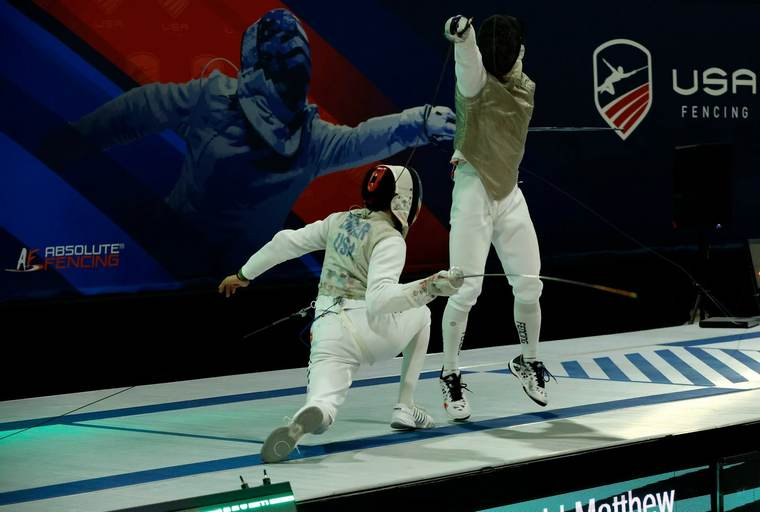
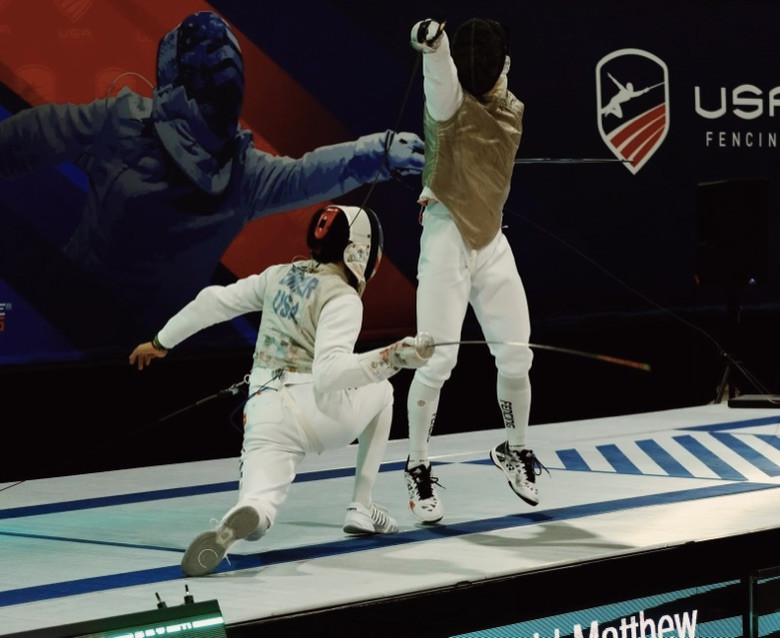
Swap the fencing photo and give ISEF one of its own (#21)
fence.jpg is replaced with the USA Fencing bout shot. The alt text no
longer says "mid-lunge" — there are two fencers in this one and the
description now covers the whole frame rather than a single figure.

ISEF gets hover photo #2 on the buoys bullet. The attributes go on the
existing <a>, the same way Academies-IT carries its photo, so a tap on
a phone still follows the link to the project page.

Both files are resampled to 780px wide to match the rest of img/.

diff --git a/index.html b/index.html
@@ -288,7 +288,11 @@
         data-hover-alt="a 3d printed solar buoy floating in clear turquoise water"
         >buoys</span> that track endangered whales
       (Published @ <a href="https://agu.confex.com/agu/OSM26/meetingapp.cgi"><strong>OSM</strong></a>,
-      4th &amp; Special @ <a href="https://isef.net/project/robo046t-mobyglobal-a-real-time-whale-detection-network"><strong>ISEF</strong></a>,
+      4th &amp; Special @ <a href="https://isef.net/project/robo046t-mobyglobal-a-real-time-whale-detection-network"
+        data-hover-img="img/isef.jpg"
+        data-hover-caption="Columbus, Ohio '25"
+        data-hover-alt="matthew and other isef finalists posed around a lit-up STEM sign"
+        ><strong>ISEF</strong></a>,
       Patent)
     </li>
     <li>
@@ -314,7 +318,7 @@
       i like to <span class="ph"
         data-hover-img="img/fence.jpg"
         data-hover-caption="cool point... don't check the score"
-        data-hover-alt="matthew mid-lunge in a foil bout at a USA Fencing event"
+        data-hover-alt="matthew in a foil bout at a USA Fencing event, one fencer lunging low as the other leaps"
         >fence</span> &mdash; currently competing for <span class="ph"
         data-hover-img="img/teamusa.jpg"
         data-hover-caption="2 AM @ bulgaria with top tier schwarma"
